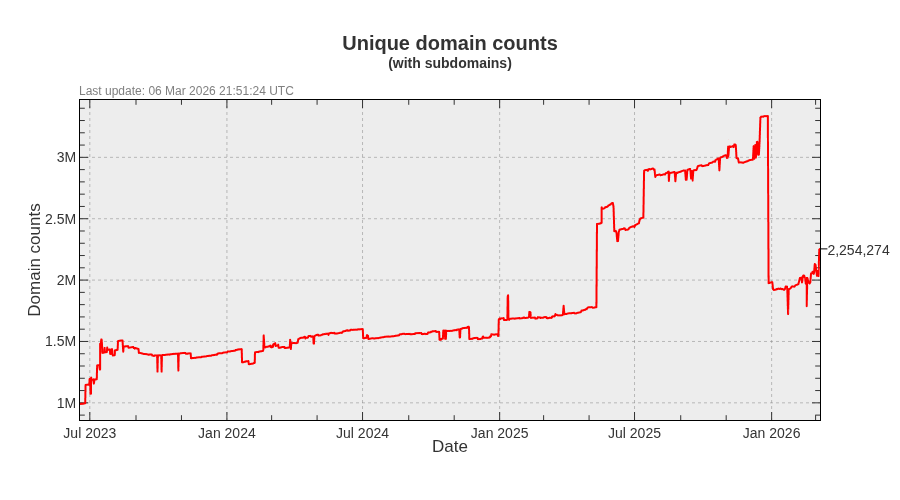
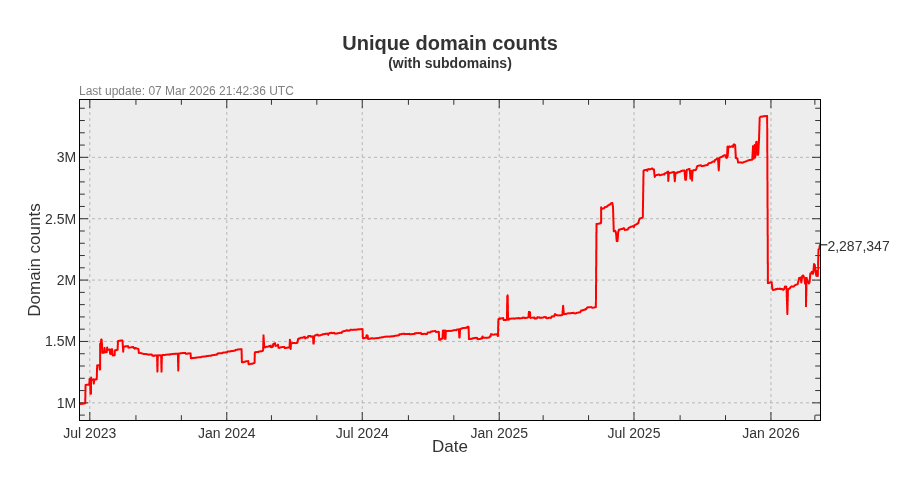
Update pages

diff --git a/README.md b/README.md
@@ -3,22 +3,22 @@ A blocklist file for blocking ads, trackers and malware domains.
 
[1 lines of base64/hex data omitted]
 
-- Unique domains: 2,254,274
-- Without subdomains: 1,588,387
-- Last update: 06 Mar 2026 21:51:24 UTC
-- Version: 2026.03.06.01
+- Unique domains: 2,287,347
+- Without subdomains: 1,620,944
+- Last update: 07 Mar 2026 21:42:36 UTC
+- Version: 2026.03.07.01
 
 
 ## Downloads:
 
 | Format             | Domain count      | Download Link |
 |------------------ | -----------------|-------------|
-| *Adblock Plus*     | 1,588,387 | [Download](https://dl.cenk.app/bad-hosts/bad-hosts-abp) |
-| *Wildcard domains* | 1,588,387 | [Download](https://dl.cenk.app/bad-hosts/bad-hosts-wildcard) |
-| *dnsmasq*          | 1,588,387 | [Download](https://dl.cenk.app/bad-hosts/bad-hosts-dnsmasq) |
-| *hosts*            | 2,254,274 | [Download](https://dl.cenk.app/bad-hosts/hosts) |
-| *hosts (ipv6)*     | 2,254,274 | [Download](https://dl.cenk.app/bad-hosts/hosts-ipv6) |
-| *Plain domains*    | 2,254,274 | [Download](https://dl.cenk.app/bad-hosts/bad-hosts-domains) |
+| *Adblock Plus*     | 1,620,944 | [Download](https://dl.cenk.app/bad-hosts/bad-hosts-abp) |
+| *Wildcard domains* | 1,620,944 | [Download](https://dl.cenk.app/bad-hosts/bad-hosts-wildcard) |
+| *dnsmasq*          | 1,620,944 | [Download](https://dl.cenk.app/bad-hosts/bad-hosts-dnsmasq) |
+| *hosts*            | 2,287,347 | [Download](https://dl.cenk.app/bad-hosts/hosts) |
+| *hosts (ipv6)*     | 2,287,347 | [Download](https://dl.cenk.app/bad-hosts/hosts-ipv6) |
+| *Plain domains*    | 2,287,347 | [Download](https://dl.cenk.app/bad-hosts/bad-hosts-domains) |
 
 ## Domain count history
 ### With subdomains
